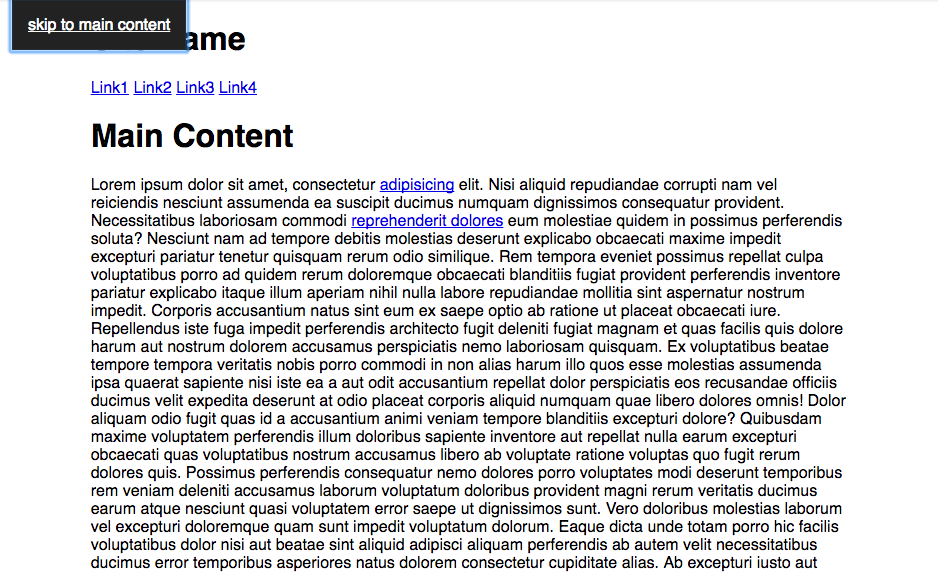
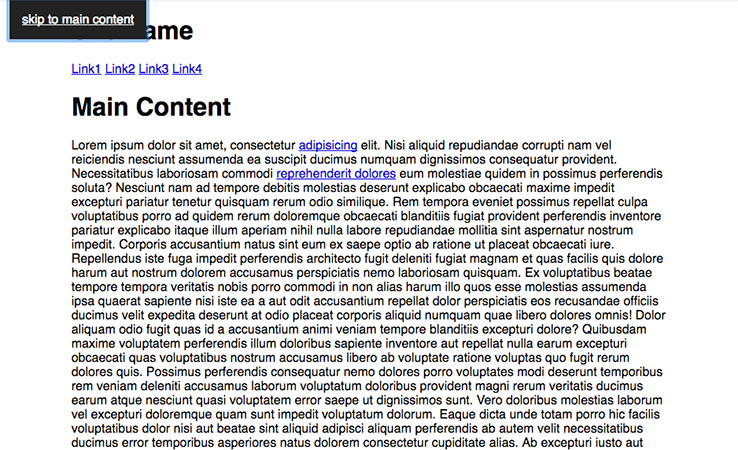
¯\_(ツ)_/¯

diff --git a/index.html b/index.html
@@ -446,7 +446,6 @@
 
 				<section>
 					<h2>Skip to content</h2>
-					<p class="fragment">Invisible o visual (focus)</p>
 				</section>
 				
 				<section>
@@ -490,11 +489,10 @@
 					<h2>Visual</h2>
 					<pre><code data-trim>
 .skip {
-  padding: 1em;
   position: absolute;
   top: -40px;
   left: 1em;
-  z-index: 1000;
+  z-index: 1;
   color: white;
 }
 
@@ -508,15 +506,15 @@
 
 				<section>
 					<h2>Skip to content - Visual</h2>
-					<a href="https://codepen.io/joe-watkins/pen/rjhiK?editors=1100" target="_blank" rel="noopener">
-						<img src="img/skip1.png" alt="Codepen example of skip navigation link">
+					<a href="http://www.sarasoueidan.com/" target="_blank" rel="noopener">
+						<img src="img/skip1.png" alt="Sara Soueidan's website, example of skip navigation">
 					</a>
 				</section>
 
 				<section>
 					<h2>Skip to content - Visual</h2>
-					<a href="http://www.sarasoueidan.com/" target="_blank" rel="noopener">
-						<img src="img/skip2.png" alt="Sara Soueidan's website as another example of skip navigation">
+					<a href="https://codepen.io/joe-watkins/pen/rjhiK?editors=1100" target="_blank" rel="noopener">
+						<img src="img/skip2.png" alt="Codepen as another example of skip navigation link">
 					</a>
 				</section>
 
